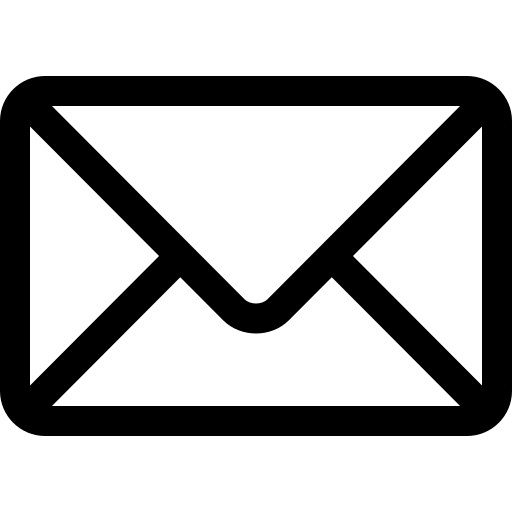
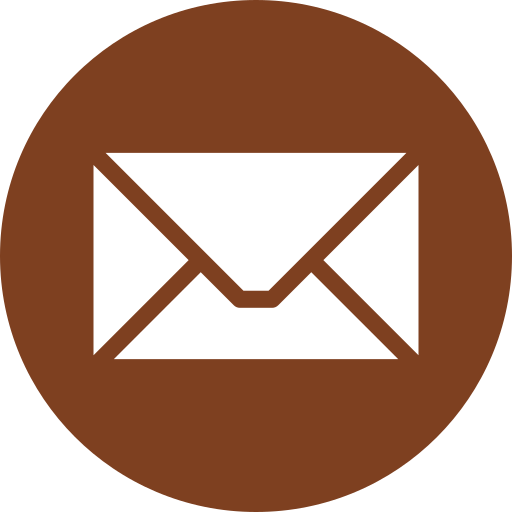
About & Images
Replaced icons with ones that fit my website.
Edited my about html and css to fit the icons and the face shot

diff --git a/about.html b/about.html
@@ -28,7 +28,7 @@
     </div>
   </nav>
 
-  <!-- ── Mobile menu ── -->
+  <!--  Mobile menu  -->
   <div class="mobile-menu" id="mobileMenu">
     <a href="about.html"    onclick="closeMobile()">About</a>
     <a href="projects.html" onclick="closeMobile()">Projects</a>
@@ -52,14 +52,20 @@
 
         <div class="avatar-block fade-up">
           <div class="avatar-outer">
-            <div class="avatar-inner">KM</div>
+            <img src="assets/self-potrait.jpg" alt="Self Potrait" class="avatar-photo" />
             <div class="avatar-badge avatar-badge--1">Engineering Student</div>
             <div class="avatar-badge avatar-badge--2">📍 Gauteng, SA</div>
           </div>
           <div class="avatar-links">
-            <a href="mailto:[email redacted]" class="avatar-link" title="Email">✉️</a>
-            <a href="#" class="avatar-link" title="LinkedIn">💼</a>
-            <a href="#" class="avatar-link" title="GitHub">💻</a>
+            <a href="mailto:[email redacted]" class="avatar-link" title="Email">
+                <img src="assets/Email.png" alt="Email" />
+            </a>
+            <a href="https://www.linkedin.com/in/katlego-mashego-7a62412ab/" class="avatar-link" title="LinkedIn">
+                <img src="assets/Linked in.png" alt="LinkedIn" />
+            </a>
+            <a href="https://github.com/gloomii-kat" class="avatar-link" title="GitHub">
+               <img src="assets/github.png" alt="GitHub" />
+            </a>
           </div>
         </div>
 
@@ -69,17 +75,17 @@
           <p class="intro__role">Engineering Student &amp; Maths Tutor</p>
           <div class="intro__bio">
             <p>
-              I'm an engineering student with a genuine love for understanding how things work — from the logic inside a computer program to the forces acting on a structure. I approach problems with curiosity first, and I've found that the same mindset that makes a good engineer also makes a good teacher.
+              I'm an electrical engineering student with a genuine love for understanding how things work, from the logic inside a computer program to the forces acting on a structure. I approach problems with curiosity first, and I've found that the same mindset that makes a good engineer also makes a good teacher.
             </p>
             <p>
-              Alongside my studies, I tutor high school learners in Mathematics and Physical Sciences. I believe every student is capable of understanding these subjects — they just need someone patient enough to find the right explanation for them.
+              Alongside my studies, I tutor high school learners in Mathematics and Physical Sciences. I believe every student is capable of understanding these subjects, they just need someone patient enough to find the right explanation for them.
             </p>
             <p>
-              Outside of engineering and tutoring, I'm drawn to game development, interactive media, and building things that people actually use. I'm looking for opportunities where I can grow technically, contribute meaningfully, and keep learning.
+              Outside of engineering and tutoring, I'm drawn to game development, and building things that people actually use. I'm looking for opportunities where I can grow technically, contribute meaningfully, and keep learning.
             </p>
           </div>
           <div class="intro__ctas">
-            <a href="#" class="btn btn--primary">Download CV</a>
+            <a href="assets/KatlegoMashego_CV.pdf" class="btn btn--primary" download>Download CV</a>
             <a href="contact.html" class="btn btn--outline">Get in Touch</a>
           </div>
 
@@ -88,7 +94,7 @@
               <div class="quick-fact__icon">🎓</div>
               <div>
                 <p class="quick-fact__label">Studying</p>
-                <p class="quick-fact__value">Engineering</p>
+                <p class="quick-fact__value">Bsci Eng in Digital Arts</p>
               </div>
             </div>
             <div class="quick-fact">
@@ -102,7 +108,7 @@
               <div class="quick-fact__icon">🌐</div>
               <div>
                 <p class="quick-fact__label">Available</p>
-                <p class="quick-fact__value">Graduate 2026</p>
+                <p class="quick-fact__value">Graduate 2027</p>
               </div>
             </div>
           </div>
@@ -129,30 +135,30 @@
               <div class="skill-bar">
                 <div class="skill-bar__top">
                   <span class="skill-bar__name">C++</span>
-                  <span class="skill-bar__pct">85%</span>
-                </div>
-                <div class="skill-bar__track"><div class="skill-bar__fill" data-width="85"></div></div>
-              </div>
-              <div class="skill-bar">
-                <div class="skill-bar__top">
-                  <span class="skill-bar__name">C# (Unity)</span>
-                  <span class="skill-bar__pct">78%</span>
-                </div>
-                <div class="skill-bar__track"><div class="skill-bar__fill" data-width="78"></div></div>
-              </div>
-              <div class="skill-bar">
-                <div class="skill-bar__top">
-                  <span class="skill-bar__name">JavaScript</span>
                   <span class="skill-bar__pct">72%</span>
                 </div>
                 <div class="skill-bar__track"><div class="skill-bar__fill" data-width="72"></div></div>
               </div>
               <div class="skill-bar">
                 <div class="skill-bar__top">
-                  <span class="skill-bar__name">HTML &amp; CSS</span>
-                  <span class="skill-bar__pct">80%</span>
+                  <span class="skill-bar__name">C# (Unity)</span>
+                  <span class="skill-bar__pct">70%</span>
                 </div>
-                <div class="skill-bar__track"><div class="skill-bar__fill" data-width="80"></div></div>
+                <div class="skill-bar__track"><div class="skill-bar__fill" data-width="70"></div></div>
+              </div>
+              <div class="skill-bar">
+                <div class="skill-bar__top">
+                  <span class="skill-bar__name">JavaScript(Beginner)</span>
+                  <span class="skill-bar__pct">60%</span>
+                </div>
+                <div class="skill-bar__track"><div class="skill-bar__fill" data-width="60"></div></div>
+              </div>
+              <div class="skill-bar">
+                <div class="skill-bar__top">
+                  <span class="skill-bar__name">HTML &amp; CSS(Beginner)</span>
+                  <span class="skill-bar__pct">60%</span>
+                </div>
+                <div class="skill-bar__track"><div class="skill-bar__fill" data-width="60"></div></div>
               </div>
             </div>
           </div>
@@ -164,7 +170,6 @@
               <span class="skill-tag">Git &amp; GitHub</span>
               <span class="skill-tag">VS Code</span>
               <span class="skill-tag">Visual Studio</span>
-              <span class="skill-tag skill-tag--accent">CAD Software</span>
               <span class="skill-tag">MATLAB</span>
               <span class="skill-tag">Microsoft Office</span>
               <span class="skill-tag">Google Workspace</span>
@@ -174,10 +179,10 @@
           <div class="skill-group">
             <p class="skill-group__label">Engineering Competencies</p>
             <div class="tag-cloud">
-              <span class="skill-tag skill-tag--accent">Structural Analysis</span>
-              <span class="skill-tag">Thermodynamics</span>
-              <span class="skill-tag">Fluid Mechanics</span>
-              <span class="skill-tag skill-tag--accent">FEA Simulation</span>
+              <span class="skill-tag skill-tag--accent">Circuit Analysis</span>
+              <span class="skill-tag">Data Structures</span>
+              <span class="skill-tag">Microprocessor Design</span>
+              <span class="skill-tag skill-tag--accent">Electronics</span>
               <span class="skill-tag">Technical Writing</span>
               <span class="skill-tag">Lab Investigation</span>
             </div>
@@ -243,20 +248,20 @@
         <div class="fade-up">
           <p class="section-label">Education</p>
           <h2 class="section-title">Academic background.</h2>
-          <p class="section-sub">A strong foundation in engineering, mathematics, and computer science — built through rigorous coursework and independent projects.</p>
+          <p class="section-sub">A strong foundation in engineering, mathematics, and software development, built through rigorous coursework and independent projects.</p>
 
           <div class="timeline">
             <div class="timeline-item">
               <p class="timeline-item__date">2023 – Present</p>
-              <h3 class="timeline-item__title">Bachelor of Engineering</h3>
-              <p class="timeline-item__institution">University of Pretoria</p>
-              <p class="timeline-item__desc">Studying towards a degree in Mechanical Engineering with coursework spanning mechanics, thermodynamics, fluid mechanics, programming, and engineering design. Maintaining strong academic standing with multiple distinction-level submissions.</p>
+              <h3 class="timeline-item__title">Bachelor of Bachelor of Engineering Science in Digital Arts</h3>
+              <p class="timeline-item__institution">University of the Witwatersrand</p>
+              <p class="timeline-item__desc">  Pursuing a Bachelor’s degree in Electrical Engineering with a strong foundation in circuit analysis, electronics, programming, control systems, and engineering mathematics. Experienced in laboratory experimentation, technical problem-solving, and embedded systems development, while consistently achieving distinction-level results across multiple engineering projects and assessments.</p></div>
             </div>
             <div class="timeline-item">
               <p class="timeline-item__date">2022</p>
               <h3 class="timeline-item__title">National Senior Certificate (Matric)</h3>
               <p class="timeline-item__institution">High School Name</p>
-              <p class="timeline-item__desc">Achieved strong results in Mathematics, Physical Sciences, and Information Technology. Received merit recognition for academic performance.</p>
+              <p class="timeline-item__desc">Achieved strong results in Mathematics, Physical Sciences, and Life Sciences. Received merit recognition for academic performance.</p>
             </div>
             <div class="timeline-item">
               <p class="timeline-item__date">2022 – Present</p>
@@ -270,42 +275,42 @@
         <div class="fade-up">
           <p class="section-label">Highlights</p>
           <h2 class="section-title">Beyond the classroom.</h2>
-          <p class="section-sub">Initiative, curiosity, and engagement beyond formal coursework — evidence of a genuine passion for technology and problem-solving.</p>
+          <p class="section-sub">Initiative, curiosity, and engagement beyond formal coursework, evidence of a genuine passion for technology and problem-solving.</p>
 
           <div class="achievements">
             <div class="achievement">
-              <div class="achievement__icon">🏆</div>
+              <div class="achievement__icon">🏅</div>
               <div>
-                <p class="achievement__title">Distinction — Structural Analysis Lab</p>
-                <p class="achievement__detail">Top-ranked submission for truss analysis report, with under 3% deviation between analytical and simulated results.</p>
+                <p class="achievement__title">District Netball Player</p>
+                <p class="achievement__detail">Represented the district U12 netball team in 2020 and 2022, developing teamwork, discipline, resilience, and leadership under competitive conditions.</p>
               </div>
             </div>
             <div class="achievement">
-              <div class="achievement__icon">🎮</div>
+              <div class="achievement__icon">👩💼</div>
               <div>
-                <p class="achievement__title">Game Showcase — Lab Demo Day</p>
-                <p class="achievement__detail">Presented a fully playable 2D Unity platformer at a public engineering lab showcase, demonstrating creative initiative beyond coursework requirements.</p>
+                <p class="achievement__title">Deputy Head Girl</p>
+                <p class="achievement__detail">Served as Deputy Head Girl, helping coordinate student initiatives, represent learner interests, and foster a positive school culture through leadership and service.</p>
               </div>
             </div>
             <div class="achievement">
-              <div class="achievement__icon">💡</div>
+              <div class="achievement__icon">⚡</div>
               <div>
-                <p class="achievement__title">Self-taught: Web Development</p>
-                <p class="achievement__detail">Independently studied HTML, CSS, and vanilla JavaScript to build this portfolio — demonstrating learning initiative and practical application outside of formal study.</p>
+                <p class="achievement__title">Wits Energy Indaba Organiser</p>
+                <p class="achievement__detail">Assisted in planning and executing the inaugural Energy Indaba, collaborating with faculty leaders and stakeholders to deliver a successful engineering-focused event.</p>
               </div>
             </div>
             <div class="achievement">
               <div class="achievement__icon">📚</div>
               <div>
-                <p class="achievement__title">Consistent Tutoring Results</p>
-                <p class="achievement__detail">Students consistently improved their marks within one term, with several moving from failing to passing Mathematics at the high school level.</p>
+                <p class="achievement__title">Private Mathematics Tutor</p>
+                <p class="achievement__detail">Help students improve academic performance through personalised lesson plans, targeted feedback, and study strategies tailored to individual learning styles.</p>
               </div>
             </div>
             <div class="achievement">
-              <div class="achievement__icon">🔬</div>
+              <div class="achievement__icon">🤝</div>
               <div>
-                <p class="achievement__title">Top 15% — Heat Exchanger Design</p>
-                <p class="achievement__detail">Ranked in the top 15% of submissions for the thermodynamics design project, meeting the specified thermal duty with an 8% safety margin.</p>
+                <p class="achievement__title">Student Leadership & Advocacy</p>
+                <p class="achievement__detail">Contributed to student development initiatives through EBEILAD and faculty leadership structures, helping organise workshops, dialogues, and events focused on academic success and career readiness.</p>
               </div>
             </div>
           </div>
@@ -321,13 +326,13 @@
       <div class="values__header fade-up">
         <p class="section-label">What Drives Me</p>
         <h2 class="section-title">Values I work by.</h2>
-        <p class="section-sub">These aren't just words — they show up in how I approach every project, every session, and every challenge.</p>
+        <p class="section-sub">These aren't just words; they show up in how I approach every project, every session, and every challenge.</p>
       </div>
       <div class="values-grid">
         <div class="value-card fade-up">
           <div class="value-card__icon">🔍</div>
           <p class="value-card__title">Curiosity</p>
-          <p class="value-card__text">I'm driven by wanting to understand things deeply — not just how, but why. That curiosity makes me a better engineer and a better teacher.</p>
+          <p class="value-card__text">I'm driven by wanting to understand things deeply; not just how, but why. That curiosity makes me a better engineer and a better teacher.</p>
         </div>
         <div class="value-card fade-up">
           <div class="value-card__icon">🤝</div>
@@ -337,7 +342,7 @@
         <div class="value-card fade-up">
           <div class="value-card__icon">⚡</div>
           <p class="value-card__title">Ownership</p>
-          <p class="value-card__text">I take full responsibility for my work — the successes and the mistakes. I'd rather own a problem and fix it than deflect or make excuses.</p>
+          <p class="value-card__text">I take full responsibility for my work, the successes and the mistakes. I'd rather own a problem and fix it than deflect or make excuses.</p>
         </div>
         <div class="value-card fade-up">
           <div class="value-card__icon">🌱</div>
@@ -354,7 +359,7 @@
       <div class="cta__inner fade-up">
         <div>
           <p class="cta__label">What's next?</p>
-          <h2 class="cta__title">Let's build something — or learn something — together.</h2>
+          <h2 class="cta__title">Let's build something  or learn something  together.</h2>
           <p class="cta__sub">Whether you're a recruiter with an opportunity, or a parent looking for a tutor, I'd love to hear from you.</p>
         </div>
         <div class="cta__buttons">

diff --git a/css/about.css b/css/about.css
@@ -1,9 +1,4 @@
-/* ════════════════════════════════════════
-   about.css  —  page-specific styles
-   Shared tokens & components → styles.css
-════════════════════════════════════════ */
-
-/* ── Intro section ── */
+/* Intro section  */
 #intro {
   padding-top: calc(var(--nav-h) + 5rem);
   padding-bottom: 5rem;
@@ -58,12 +53,33 @@
 
 .avatar-links { display: flex; gap: 0.75rem; }
 .avatar-link {
-  width: 42px; height: 42px; border-radius: 50%;
+  width: 40px; height: 40px; border-radius: 100%;
   background: white; border: 1.5px solid rgba(126,64,32,0.15);
   display: flex; align-items: center; justify-content: center;
   font-size: 1rem;
   transition: all var(--transition); cursor: pointer;
 }
+
+.avatar-outer {
+  width: clamp(110px, 26vw, 320px);
+  aspect-ratio: 1;
+  border-radius: 40% 60% 55% 45% / 45% 40% 60% 55%;
+  position: relative;
+  overflow: visible;        /* badges can poke outside */
+}
+.avatar-photo {
+  width: 100%;
+  height: 100%;
+  object-fit: cover;
+  object-position: center top;   /* adjust to top/center/bottom to reframe your face */
+  border-radius: inherit;
+  display: block;
+  transform: scale(1.50
+  );           /* change this value to zoom  */
+  transform-origin: center top;  /* zoom anchored to top so face stays in frame */
+  overflow: hidden;
+}
+
 .avatar-link:hover {
   border-color: var(--accent); background: var(--accent-light); transform: translateY(-2px);
 }